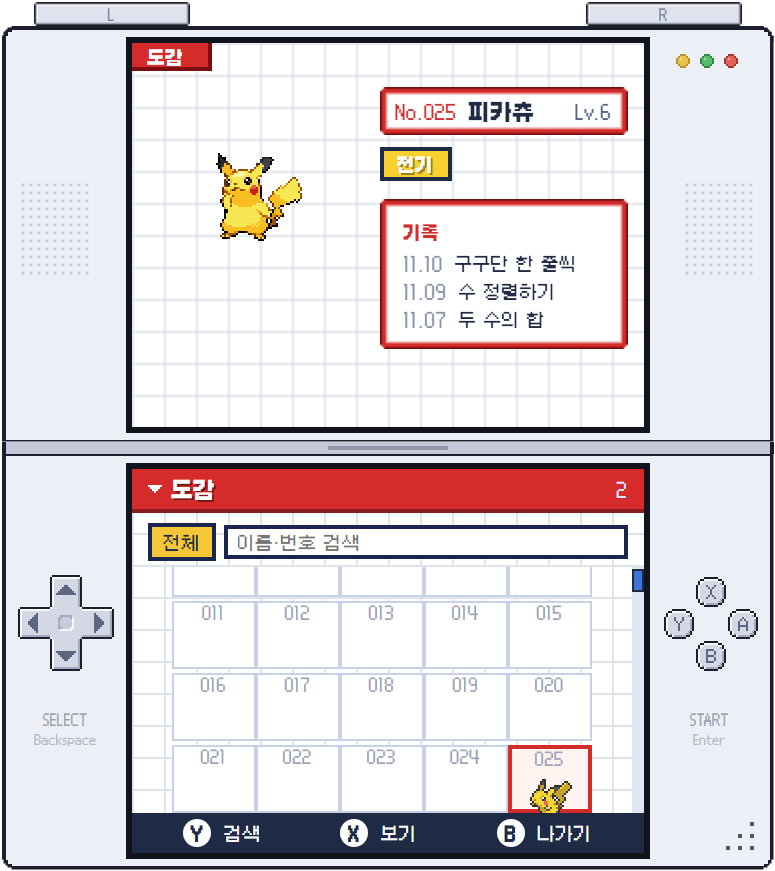
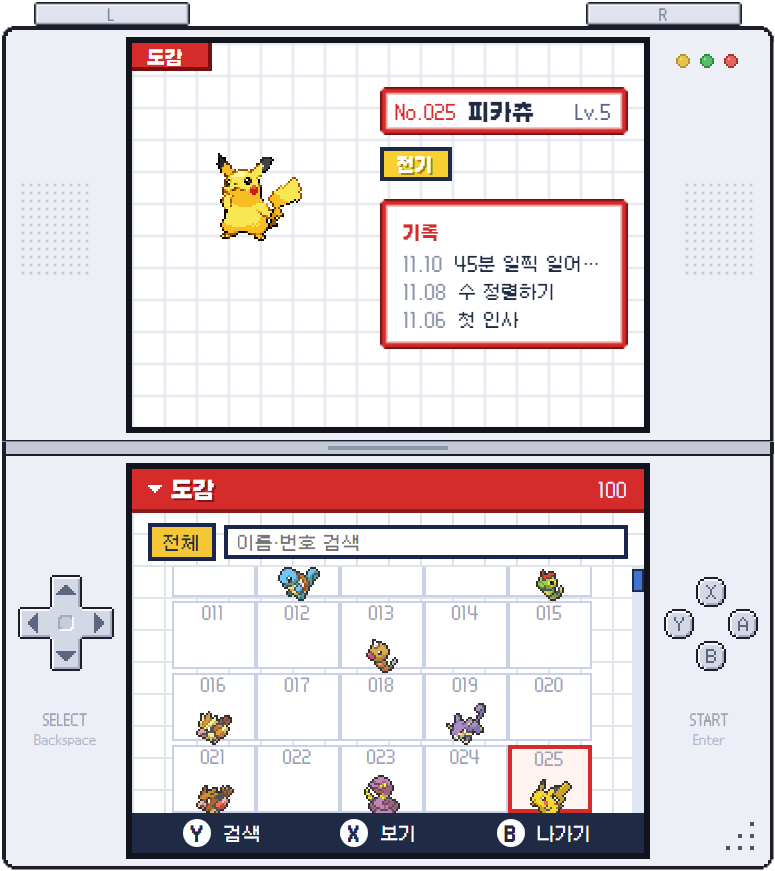
README 스크린샷을 서로 다른 화면 6장으로 교체

diff --git a/README.md b/README.md
@@ -6,10 +6,10 @@
 <p>
   <img src="docs/img/hub.png" width="32%" alt="">
   <img src="docs/img/problem.png" width="32%" alt="">
-  <img src="docs/img/wrong.png" width="32%" alt="">
+  <img src="docs/img/catch.png" width="32%" alt="">
 </p>
 <p>
-  <img src="docs/img/catch.png" width="32%" alt="">
+  <img src="docs/img/map.png" width="32%" alt="">
   <img src="docs/img/dex.png" width="32%" alt="">
   <img src="docs/img/badges.png" width="32%" alt="">
 </p>
